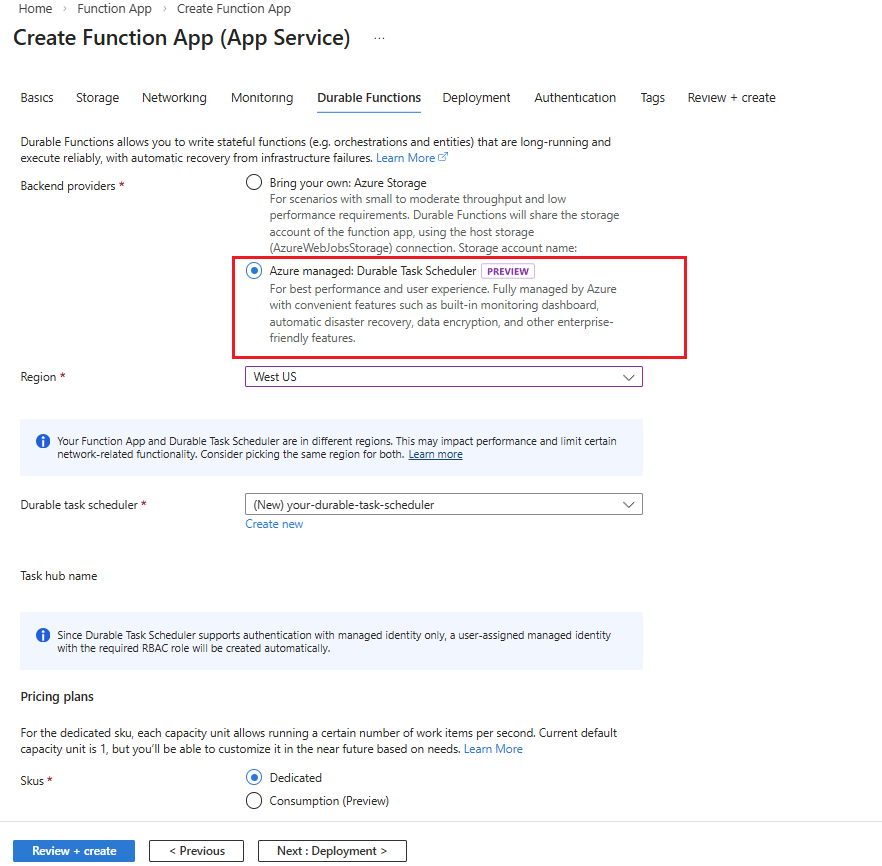
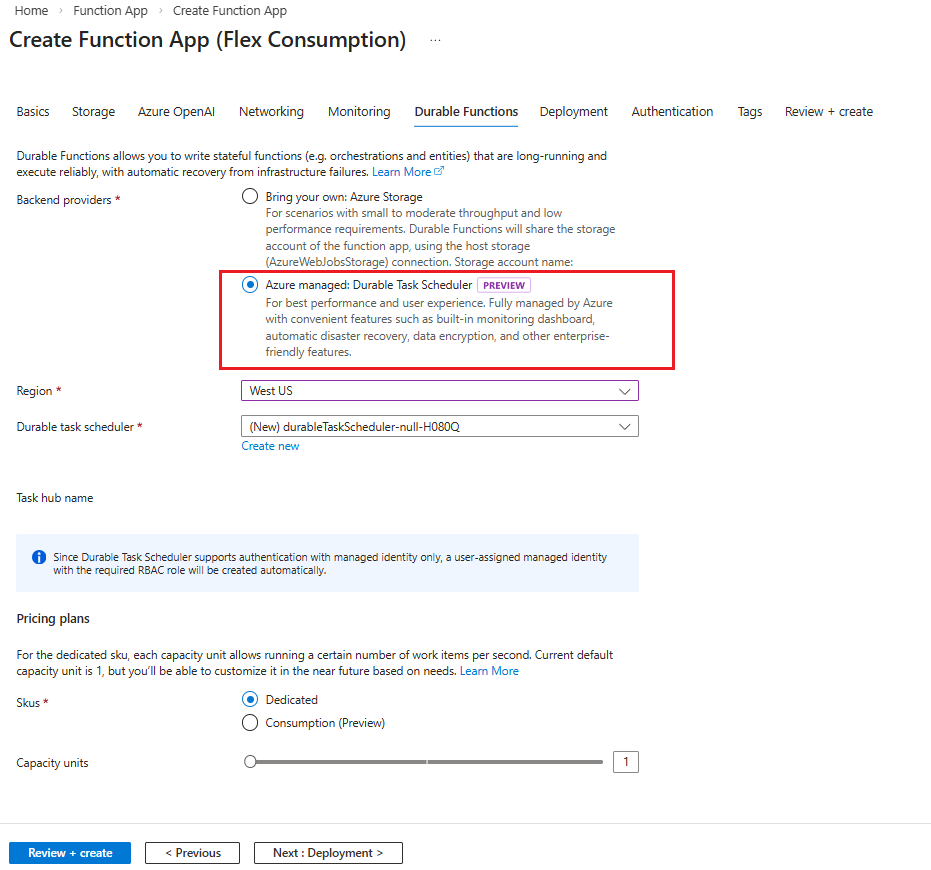
updates for hosting options

diff --git a/articles/azure-functions/durable/durable-task-scheduler/includes/function-app-integrated-creation.md b/articles/azure-functions/durable/durable-task-scheduler/includes/function-app-integrated-creation.md
@@ -5,13 +5,13 @@ ms.topic: include
 ms.date: 03/19/2025
 ---
 
-1. Navigate to the Function app creation blade and select **Functions Premium** or **App Service** as a hosting option.
+1. Navigate to the Function app creation blade. This example uses the **Flex Consumption** hosting option.
 
    :::image type="content" source="../media/create-durable-task-scheduler/function-app-hosted-app-service.png" alt-text="Screenshot of hosting options for Function apps and selecting App Service.":::
 
-1. In the **Create Function App (App Service)** blade, fill in the information in the **Basics** tab. 
+1. In the **Create Function App (Flex Consumption)** blade, fill in the information in the **Basics** tab. 
 
-   :::image type="content" source="../media/create-durable-task-scheduler/function-app-basic-tab.png" alt-text="Screenshot of the Basic tab for creating an App Service plan Function app.":::
+   :::image type="content" source="../media/create-durable-task-scheduler/function-app-basic-tab.png" alt-text="Screenshot of the Basic tab for creating a Flex Consumption plan Function app.":::
 
    | Field | Description | 
    | ----- | ----------- | 
@@ -26,7 +26,7 @@ ms.date: 03/19/2025
 
 1. Select the **Durable Functions** tab. 
 
-1. Choose **Durable Task Scheduler** as the backend provider for your durable functions. 
+1. Choose **Azure managed: Durable Task Scheduler** as the backend provider for your Durable Functions. 
 
 1. Create a scheduler resource. This action automatically creates a task hub.
 
@@ -34,9 +34,9 @@ ms.date: 03/19/2025
 
    | Field | Description | 
    | ----- | ----------- | 
-   | Storage backend | Select **Durable Task Scheduler**. | 
-   | Region | It's recommended that the scheduler and function app regions should be the same. | 
-   | Durable task scheduler | Use the scheduler name offered, or click **Create new** to create a custom name. | 
+   | Storage backend | Select **Azure managed: Durable Task Scheduler**. | 
+   | Region | Make sure the scheduler and function app regions are the same. | 
+   | Durable Task Scheduler | Use the scheduler name offered, or click **Create new** to create a custom name. | 
    | Plan | Select the [pricing plan](../durable-task-scheduler-dedicated-sku.md) that fits your project best. Check the [Choosing an orchestration framework](../choose-orchestration-framework.md) guide to determine which plan is best for production use. | 
    | Capacity units | Only applicable when "Dedicated" pricing plan is selected. You can select up to 3 Capacity Units. | 
 
